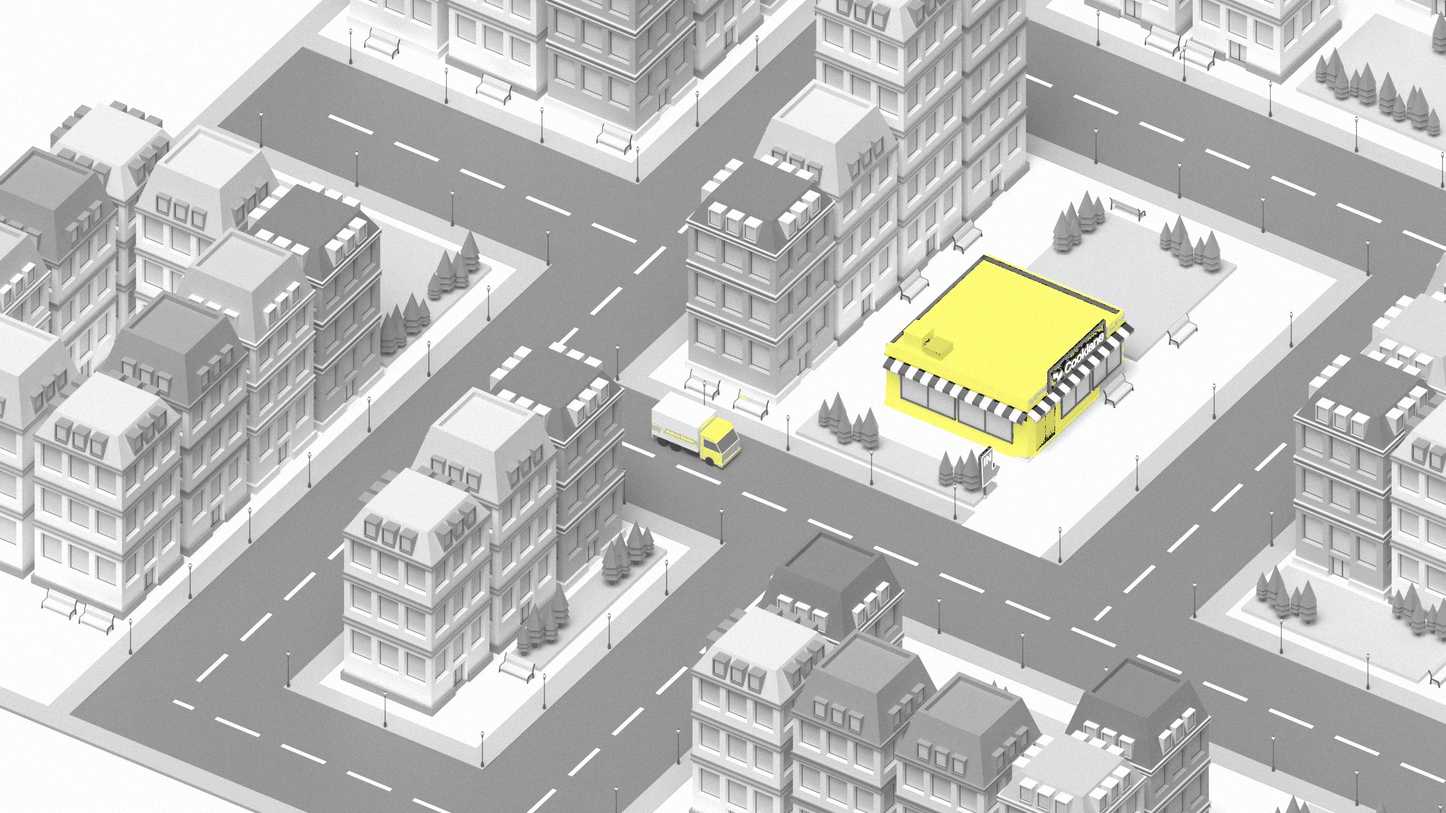
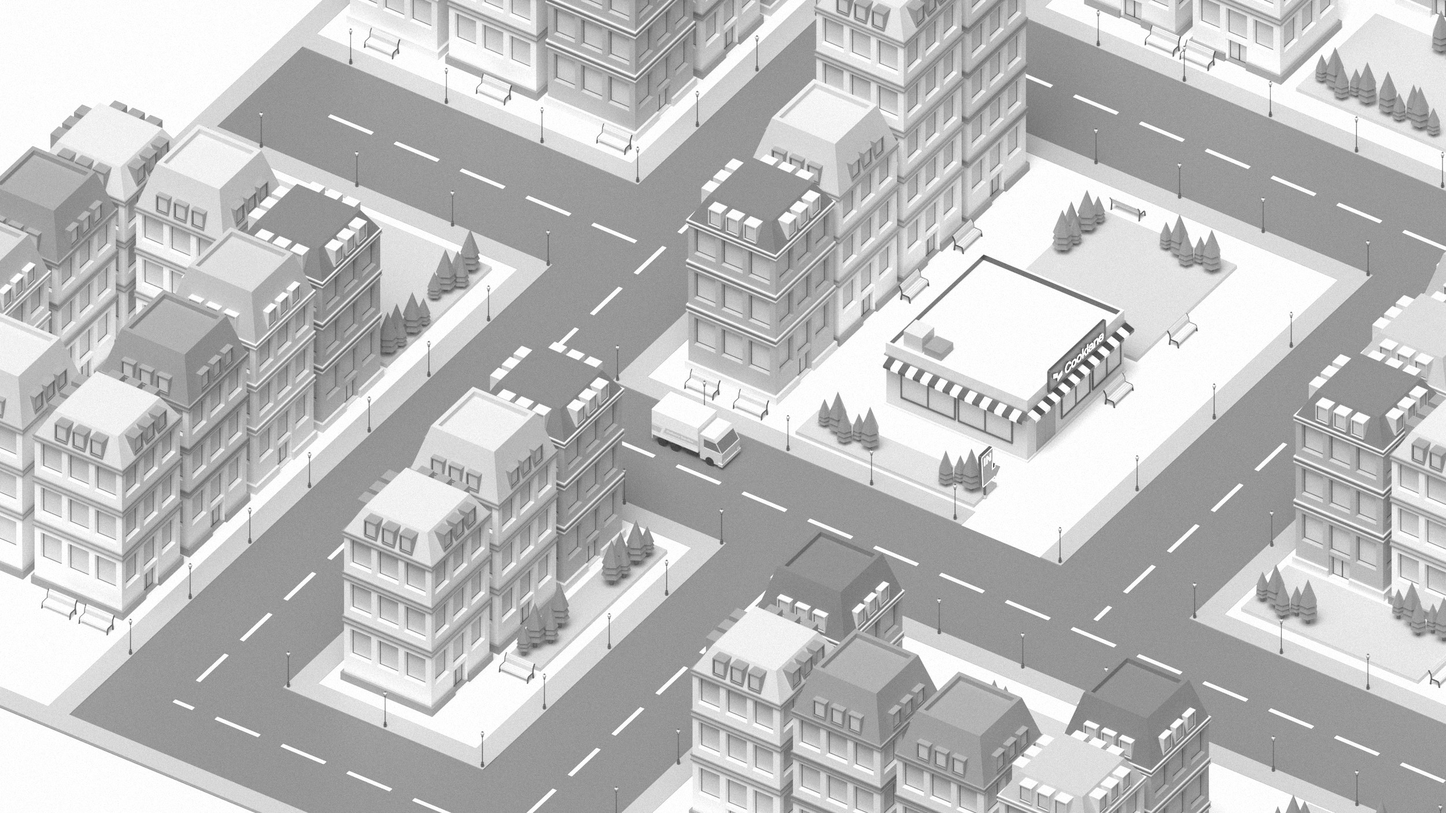
feat(web): contact page form, Company field, black and white Cooklane
- Contact page: page hero plus the enquiry form (placeholder copy gone)
- Enquiry form: Organisation is now Company
- Homepage Cooklane render is plain black and white with a slight grain
- Title consistency: Game Renders card, browser titles end in | Blackhat

Claude-Session: https://claude.ai/code/session_01MMtvy2CtvaMDFZdxa1ksQv

Changed region(s): [[0.5928, 0.3058, 0.78, 0.5811], [0.468, 0.5199, 0.5304, 0.5811]]

diff --git a/web/src/data/contact.ts b/web/src/data/contact.ts
@@ -1,11 +1,11 @@
-// Contact page copy.
+// Contact page copy. The form itself uses the enquiry copy in services.ts.
 export const contactPage = {
   meta: {
-    title: 'Contact | Blackhat Agency',
-    description: 'Start a project with Blackhat Agency.',
+    title: 'Contact Us: Start a Project | Blackhat',
+    description:
+      'Tell Blackhat Agency what you’re working on, from brand and 3D to strategy. Send a brief through the form or email team@blackhat.agency.',
   },
   eyebrow: 'Contact',
-  title: 'Let’s talk about your growth',
-  lead: 'Send us a short note on your goals, timeline and budget. We reply within two working days.',
-  emailLabel: 'Email Us',
+  title: 'Let’s talk about your project',
+  lead: 'A rough brief, a half-finished deck, a hunch. Send whatever you have and we’ll come back with how we’d approach it.',
 }

diff --git a/web/src/data/home.ts b/web/src/data/home.ts
@@ -138,7 +138,7 @@ export const home = {
   showcase: {
     image: {
       src: cooklaneWorld,
-      alt: 'Isometric 3D city in white and grey, with the Cooklane store and a delivery truck picked out in yellow',
+      alt: 'Isometric 3D city in white and grey, with the Cooklane store and a delivery truck on the streets',
     },
     caption: 'Cooklane: an isometric 3D world built to explain cloud retail at a glance.',
   },

diff --git a/web/src/data/services.ts b/web/src/data/services.ts
@@ -409,7 +409,7 @@ export const enquiry = {
   title: 'Let’s talk about your project',
   fields: {
     name: 'Name',
-    organisation: 'Organisation',
+    company: 'Company',
     email: 'Email',
     engagement: 'What do you need?',
     message: 'How can we help?',

diff --git a/web/src/data/projects.ts b/web/src/data/projects.ts
@@ -608,7 +608,7 @@ export const projects: Project[] = [
   },
   {
     slug: 'game-renders',
-    client: 'Game renders',
+    client: 'Game Renders',
     sector: 'Gaming',
     title: 'Photoreal vehicles and characters for games',
     meta: {
